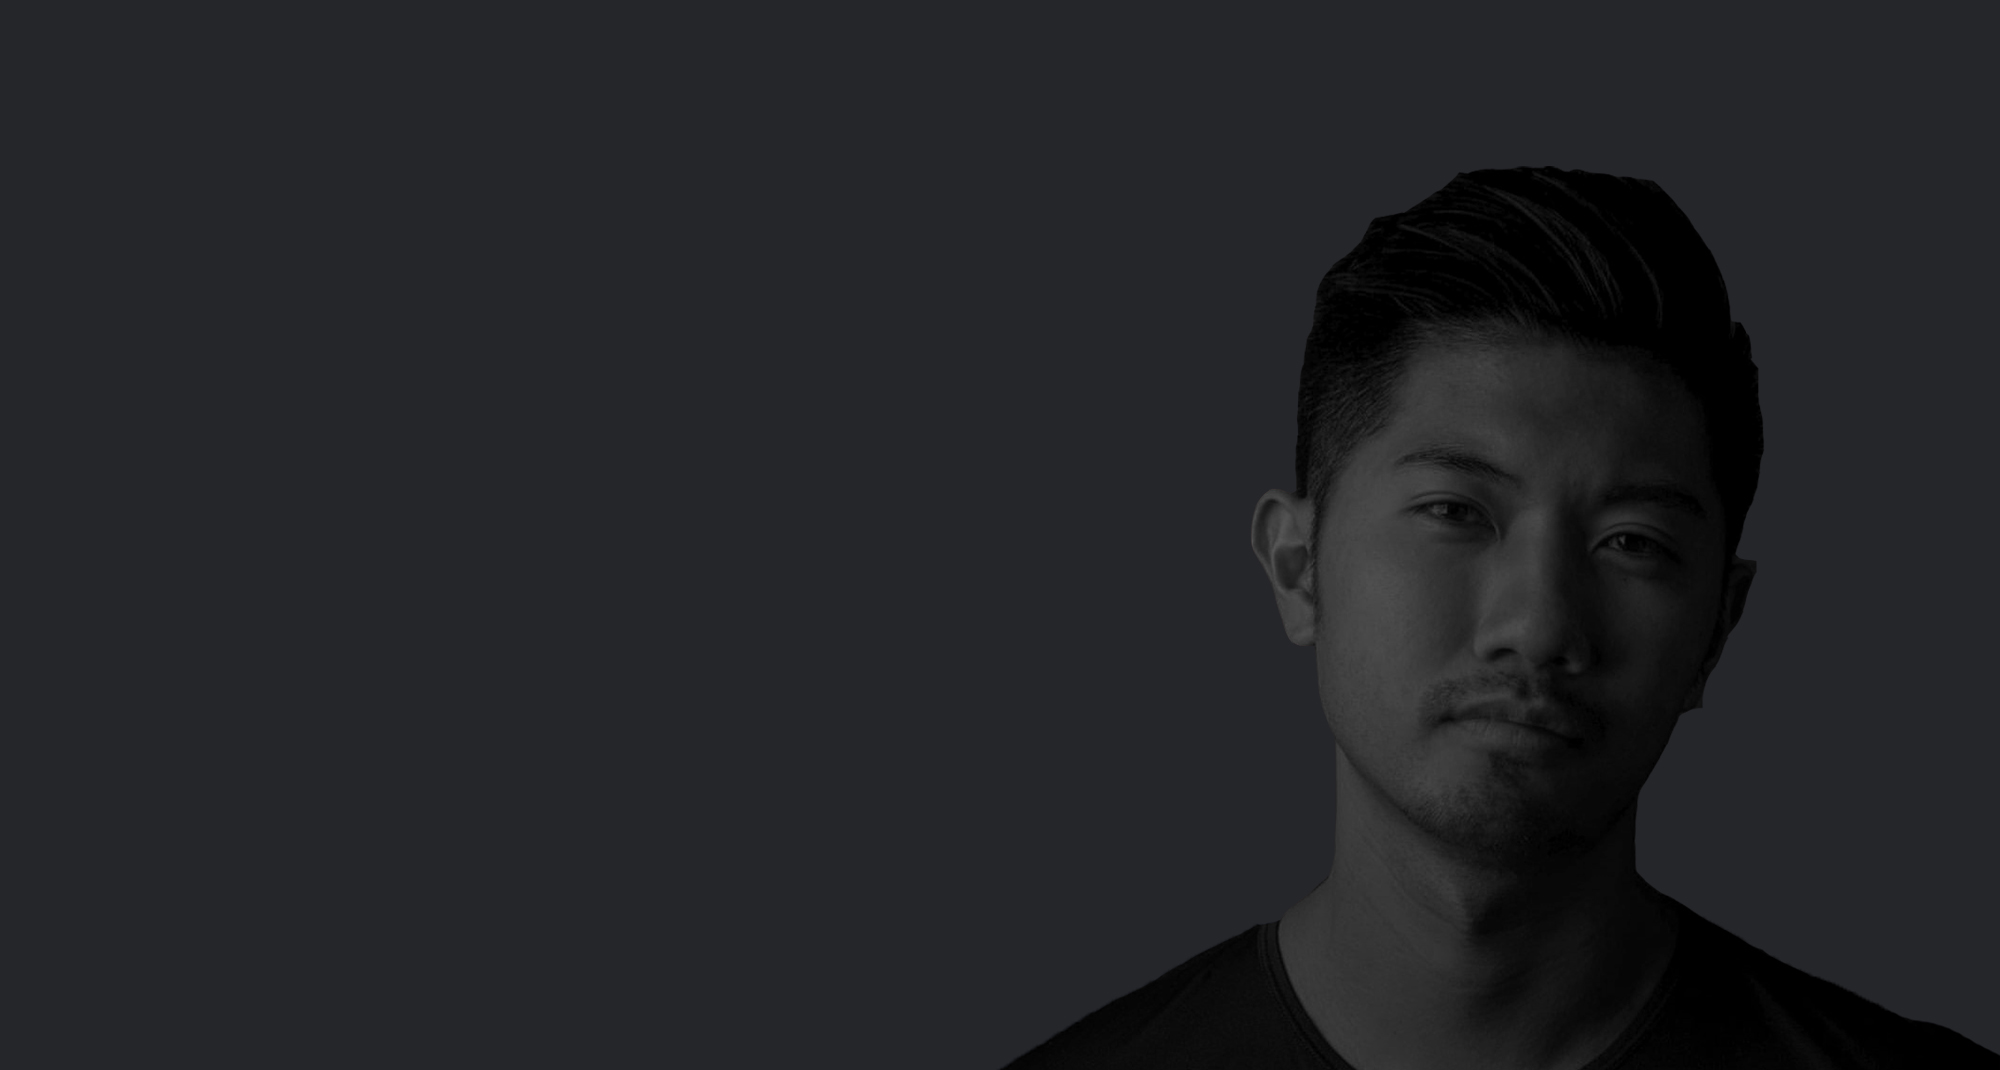
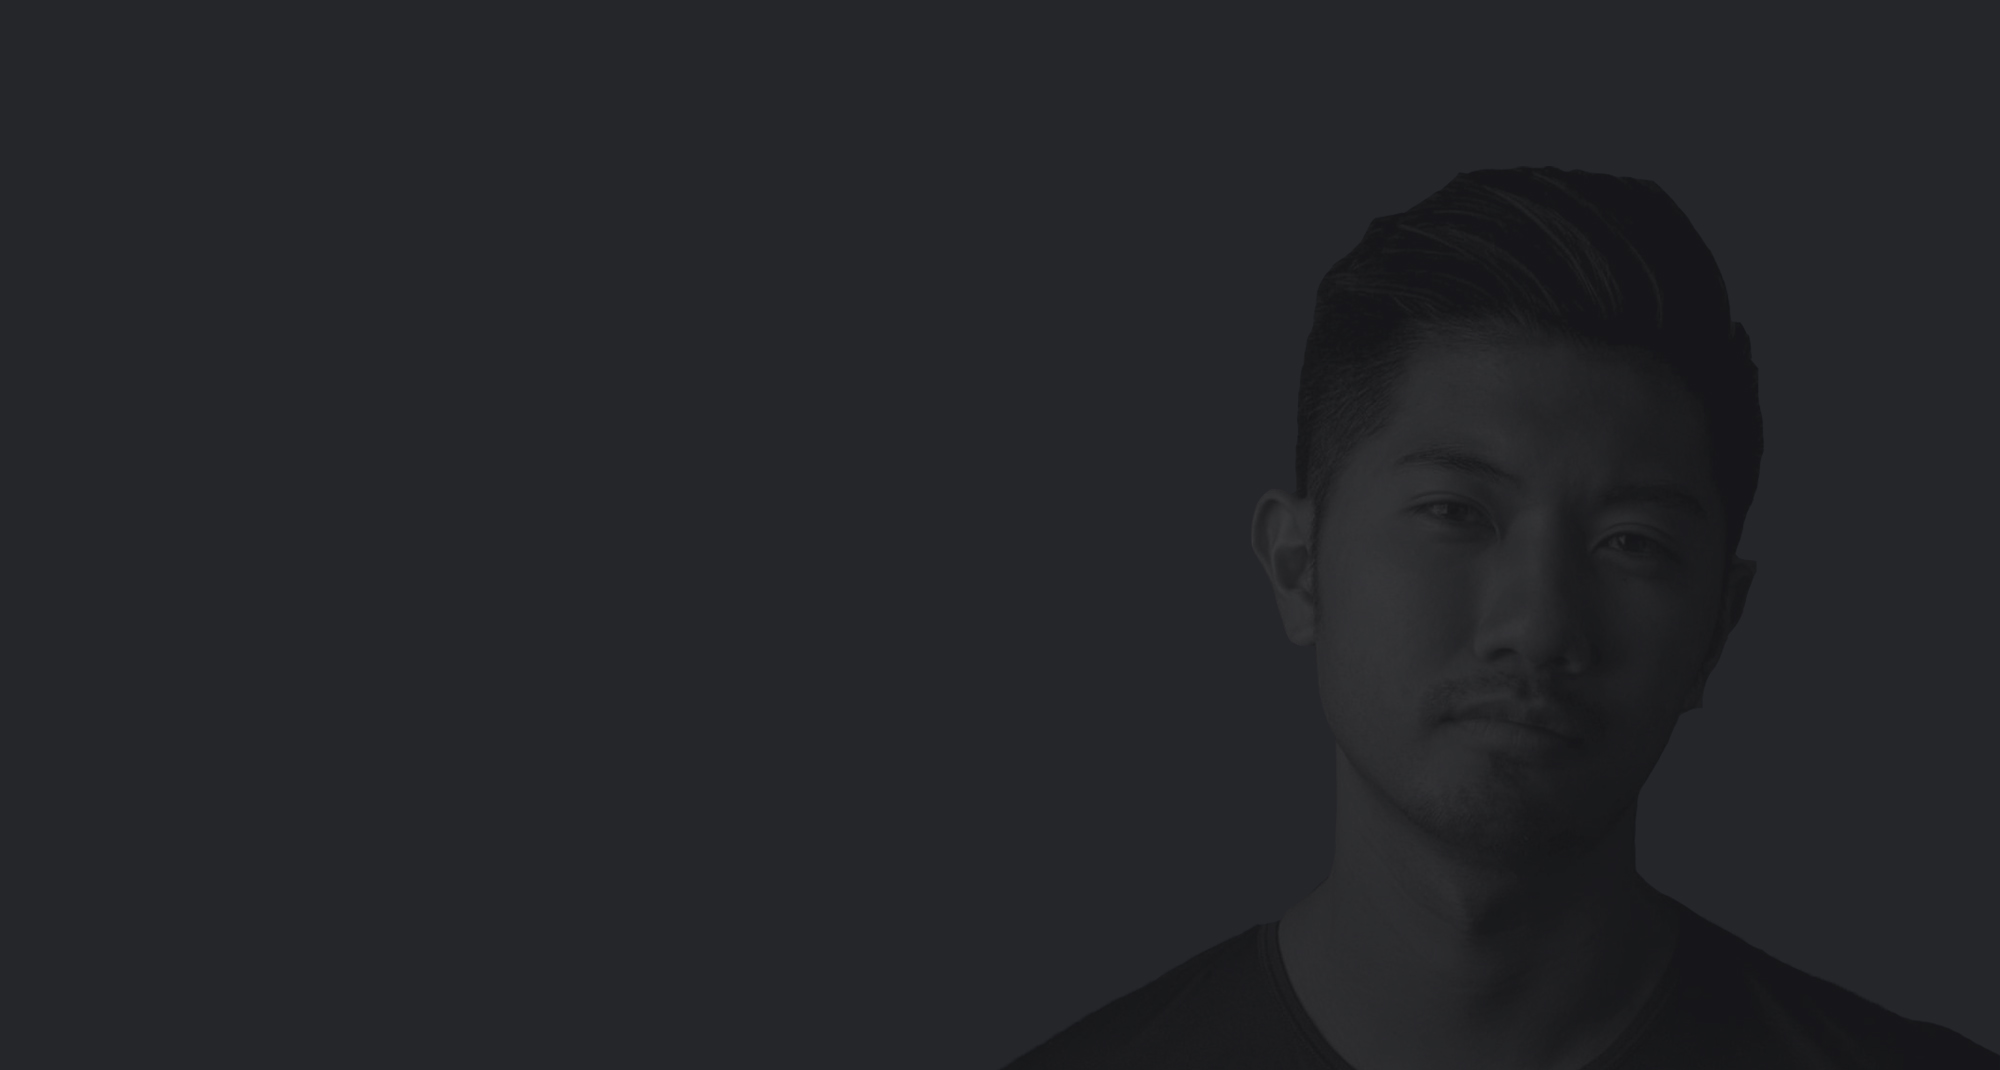
update

Changed region(s): [[0.651, 0.1542, 0.899, 0.4935], [0.837, 0.8327, 1.0, 1.0]]

diff --git a/index.html b/index.html
@@ -55,17 +55,7 @@
                         <a class="nav-link page-scroll" href="#about">About</a>
                     </li>
                     <li class="nav-item">
-                        <a class="nav-link page-scroll" href="#services">Services</a>
-                    </li>
-                    <li class="nav-item dropdown">
-                        <a class="nav-link dropdown-toggle" href="#" id="dropdown01" data-toggle="dropdown" aria-haspopup="true" aria-expanded="false">Drop</a>
-                        <div class="dropdown-menu" aria-labelledby="dropdown01">
-                            <a class="dropdown-item page-scroll" href="project.html">Project Details</a>
-                            <div class="dropdown-divider"></div>
-                            <a class="dropdown-item page-scroll" href="terms.html">Terms Conditions</a>
-                            <div class="dropdown-divider"></div>
-                            <a class="dropdown-item page-scroll" href="privacy.html">Privacy Policy</a>
-                        </div>
+                        <a class="nav-link page-scroll" href="#capabilities">Capabilities</a>
                     </li>
                     <li class="nav-item">
                         <a class="nav-link page-scroll" href="#contact">Contact</a>
@@ -73,15 +63,15 @@
                 </ul>
                 <span class="nav-item social-icons">
                     <span class="fa-stack">
-                        <a href="#your-link">
+                        <a href="https://www.linkedin.com/in/kenneth-cheong-jw/" target="_blank">
                             <i class="fas fa-circle fa-stack-2x"></i>
-                            <i class="fab fa-facebook-f fa-stack-1x"></i>
+                            <i class="fab fa-linkedin fa-stack-1x"></i>
                         </a>
                     </span>
                     <span class="fa-stack">
-                        <a href="#your-link">
+                        <a href="https://github.com/kenneth-cheong" target="_blank">
                             <i class="fas fa-circle fa-stack-2x"></i>
-                            <i class="fab fa-twitter fa-stack-1x"></i>
+                            <i class="fab fa-github fa-stack-1x"></i>
                         </a>
                     </span>
                 </span>
@@ -147,41 +137,41 @@
     <!-- end of about -->
 
 
-    <!-- Services -->
-    <div id="services" class="basic-2">
+    <!-- Capabilities -->
+    <div id="capabilities" class="basic-2">
         <div class="container">
             <div class="row">
                 <div class="col-lg-12">
-                    <h2 class="h2-heading">Offered services</h2>
-                    <p class="p-heading">Web design and development have been my bread and butter for more than 5 years. During that time I've discovered that I can help startups and companies with the following services</p>
+                    <h2 class="h2-heading">My Capabilities</h2>
+                    <p class="p-heading">Many years of experience in hospitality and service industry including sales. Making a mid-career switch to FinTech and open to options. Trained in Data Science and Analytics while taking Japanese for 6 years and Korean for 1 year respectively. Keen interest in process automation and business-driven analytics. High aptitude for learning, resourceful and efficient.</p>
                 </div> <!-- end of col -->
             </div> <!-- end of row -->
             <div class="row">
                 <div class="col-lg-4">
                     <div class="text-box">
                         <i class="far fa-gem"></i>
-                        <h4>DESIGN</h4>
-                        <p>Successful online projects start with good design. It establishes a solid foundation for future development and allows for long term growth</p>
+                        <h4>Soft Skills</h4>
+                        <p>Communication, Customer Relations, Problem Solving, Stakeholder Management & Time Management.</p>
                     </div> <!-- end of text-box -->
                 </div> <!-- end of col -->
                 <div class="col-lg-4">
                     <div class="text-box">
                         <i class="fas fa-code"></i>
-                        <h4>DEVELOPMENT</h4>
-                        <p>I can code my own designs or even use the customer's design as base. My focus is to generate clean code that's well structured for reliability</p>
+                        <h4>Coding</h4>
+                        <p>For programming languages, I can code in Python, SQL, and HTML & CSS for website design.</p>
                     </div> <!-- end of text-box -->
                 </div> <!-- end of col -->
                 <div class="col-lg-4">
                     <div class="text-box">
                         <i class="fas fa-tv"></i>
-                        <h4>BASIC SEO</h4>
-                        <p>i can setup your project to use basic SEO principles which will push your project to the first page on search engines and save you ads money</p>
+                        <h4>Software</h4>
+                        <p>Power BI, MS Excel for data-related tasks and Adobe Photoshop, Adobe XD and Final Cut Pro for design.</p>
                     </div> <!-- end of text-box -->
                 </div> <!-- end of col -->
             </div> <!-- end of row -->
         </div> <!-- end of container -->
     </div> <!-- end of basic-2 -->
-    <!-- end of services -->
+    <!-- end of capabilities -->
 
 
     <!-- Details -->
@@ -202,12 +192,13 @@
                             <p>I am familiar and work on a daily basis with HTML, CSS, JavaScript, Bootstrap and other modern frameworks</p>
                             
                             <div class="icons-container">
-                                <img src="images/details-icon-photoshop.png" alt="alternative">
-                                <img src="images/details-icon-illustrator.png" alt="alternative">
+                                <img src="images/details-icon-excel.png" alt="alternative">
+                                <img src="images/details-icon-powerbi.png" alt="alternative">
                                 <img src="images/details-icon-html.png" alt="alternative">
                                 <img src="images/details-icon-css.png" alt="alternative">
-                                <img src="images/details-icon-bootstrap.png" alt="alternative">
-                                <img src="images/details-icon-javascript.png" alt="alternative">
+                                <img src="images/details-icon-photoshop.png" alt="alternative">
+                                <img src="images/details-icon-xd.png" alt="alternative">
+                                <img src="images/details-icon-fcp.png" alt="alternative">
                             </div> <!-- end of icons-container -->
                         </div> <!-- end of text-container -->
                         <!-- end of text container -->
@@ -225,8 +216,8 @@
         <div class="container">
             <div class="row">
                 <div class="col-lg-12">
-                    <h2 class="h2-heading">Delivered projects</h2>
-                    <p class="p-heading">Listed below are some of the most representative projects I've worked on. They range from basic web design for presentation sites to advanced web development for online shops</p>
+                    <h2 class="h2-heading">Projects</h2>
+                    <p class="p-heading">Listed below are some of the most representative projects I've worked on.</p>
                 </div> <!-- end of col -->
             </div> <!-- end of row -->
             <div class="row">

diff --git a/css/styles.css b/css/styles.css
@@ -620,7 +620,7 @@ input[type='checkbox'] {
 /*******************/
 .split .area-1 {
 	height: 430px;
-	background: linear-gradient(to bottom right, rgba(25, 26, 29, 0.5), rgba(25, 26, 29, 0.5)), url('../images/details-background.jpg') center center no-repeat;
+	background: url('../images/details-background.jpg') center center no-repeat;
 	background-size: cover;
 }
 
